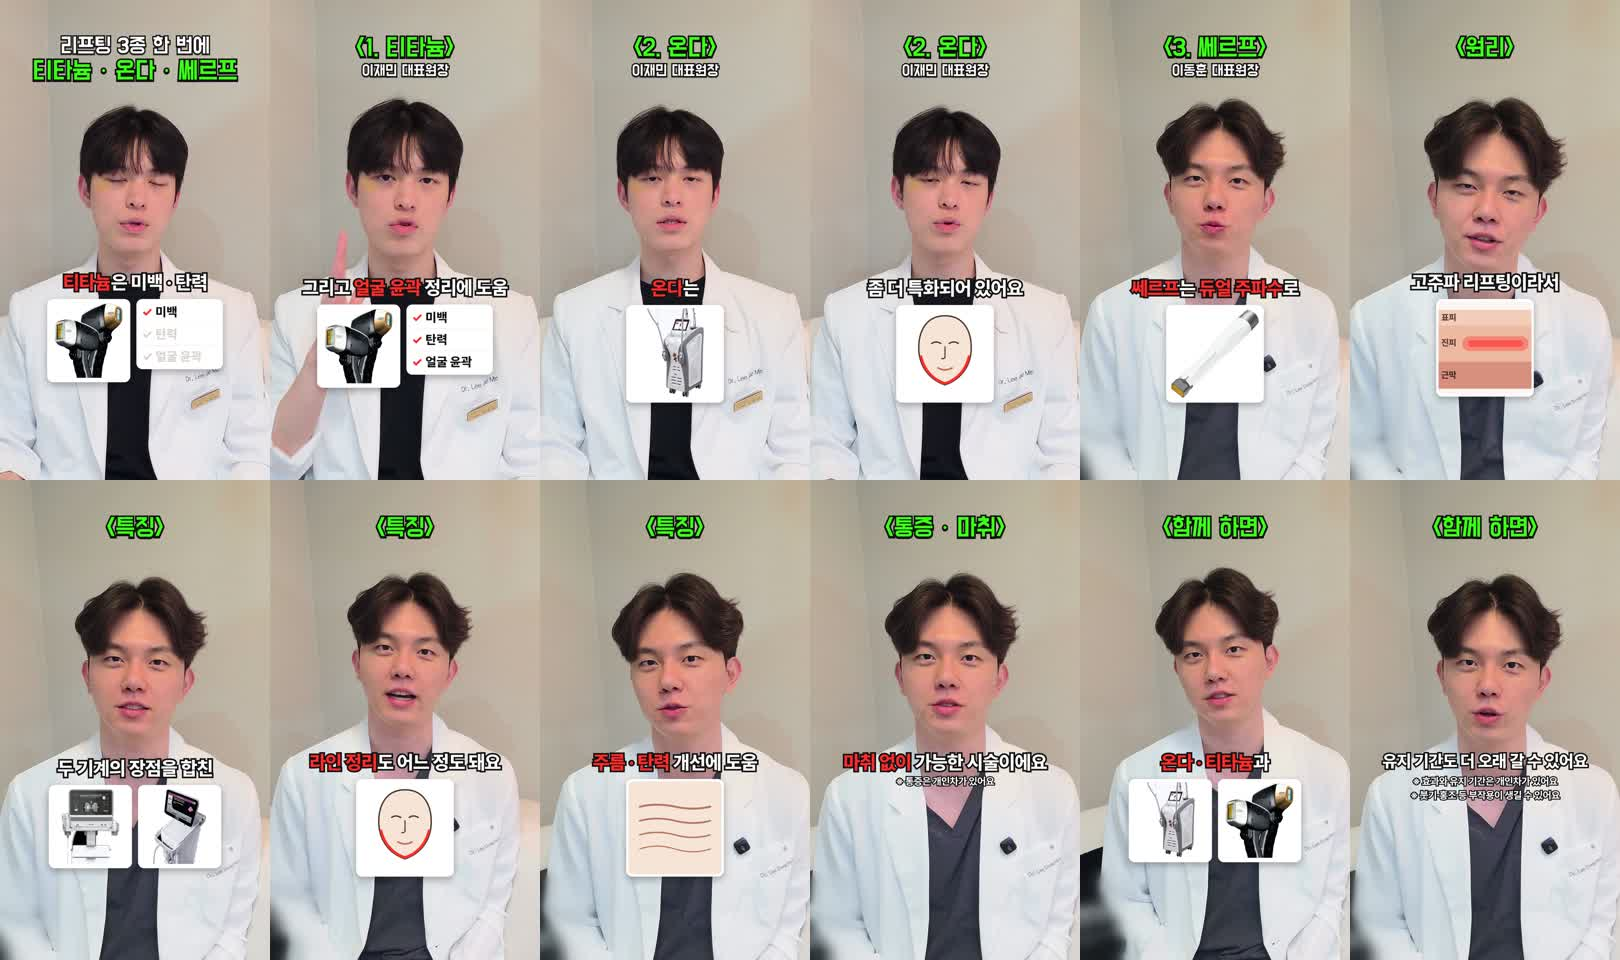
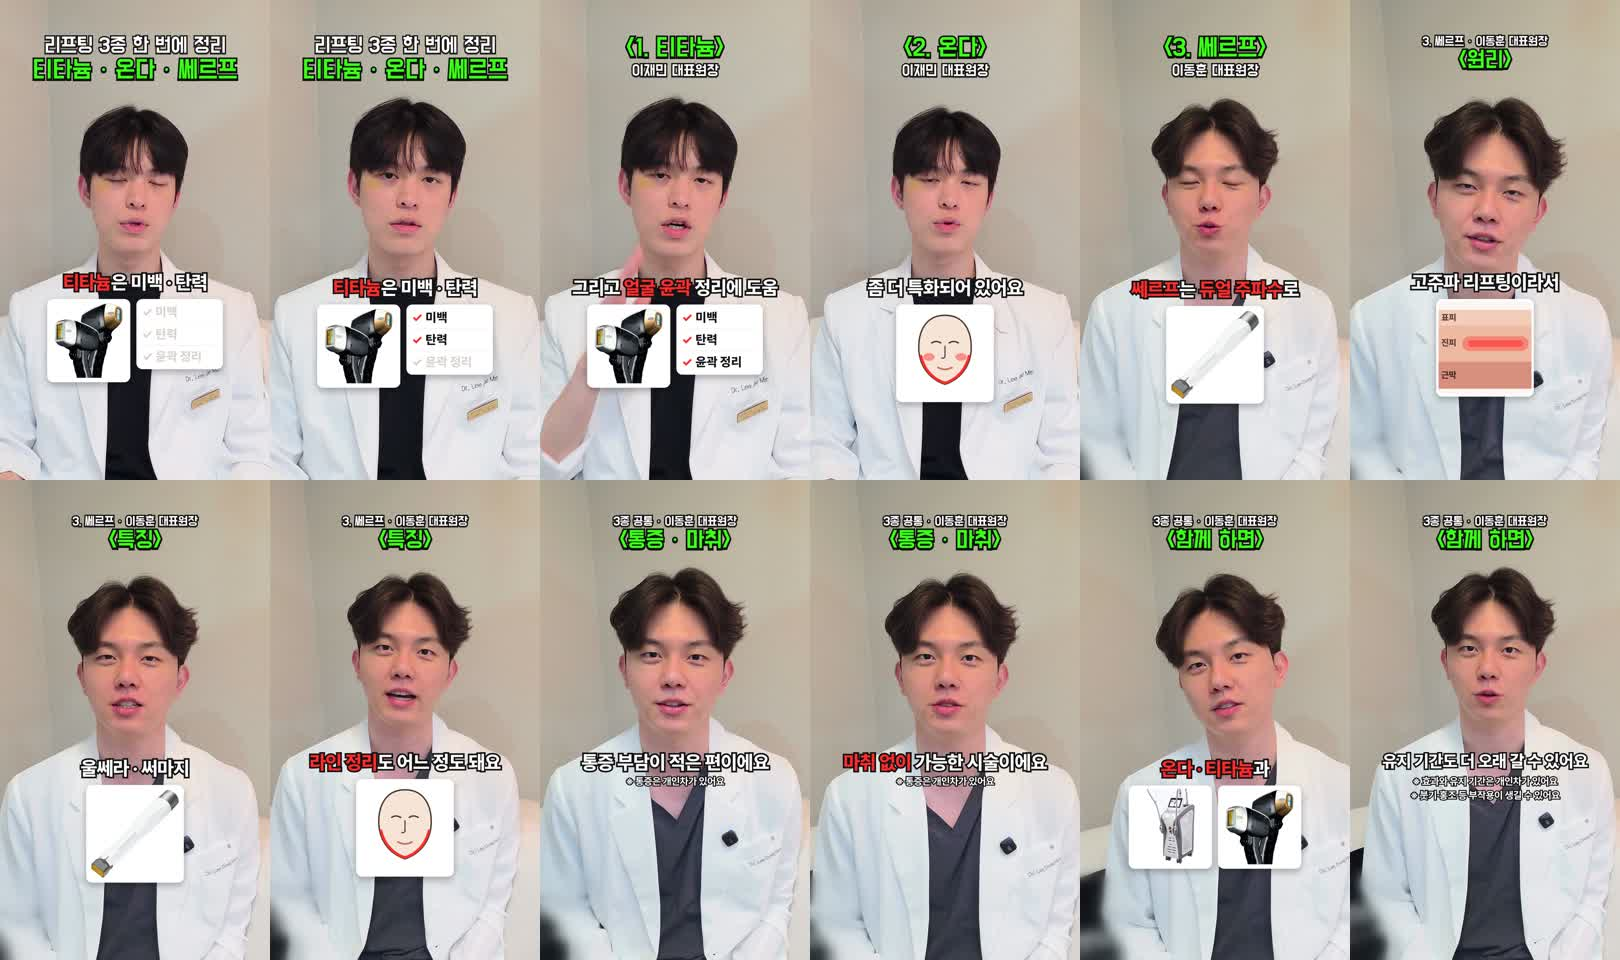
Revise combined lifting reel after verification
Drop the spoken ordinals that contradicted the on-screen order, time the
titanium checklist to the words, add kicker lines to the XERF sub-heads,
keep the XERF photo instead of a two-brand comparison, soften the pain
caption, and include blur settings in cut.py's part cache key.

Claude-Session: https://claude.ai/code/session_015iv4uUKW8AbrYF6qvAiKTG

diff --git a/reels/build/cut.py b/reels/build/cut.py
@@ -6,11 +6,11 @@ plan = {"src": "footage/x.mp4", "out": "x_cut.mov", "sil": "tr/x.sil",
         "zooms": [1.24, 1.32],             # 컷마다 번갈아 쓸 배율(원본 9:16 4K 기준, 1.0 = 화면의 75% 높이)
         "face_y": 0.40,                    # (선택) 얼굴 중심을 둘 높이(위에서 비율)
         "cover": [[x, y, w, h, "0x111111"]],  # (선택) 원본 좌표에서 칠해 가릴 사각형
-        "blur": [[x, y, w, h]],            # (선택) 원본 좌표에서 흐리게 할 사각형(상표 글자 등)
+        "blur": [[x, y, w, h, 반경]],      # (선택) 원본 좌표에서 흐리게 할 사각형(상표 글자 등). 반경 기본 22, 작은 로고는 5~6
         "zoom_list": [...]}                # (선택) 컷별 배율을 직접 지정. 원본이 이어지는 곳은 같은 배율로 두면 화면이 바뀌지 않음
 segs 안의 0.22초 넘는 쉼은 자동으로 걷어 내고, 그 자리가 컷이 된다. 결과 옆에 <out>.json(컷 목록) 저장.
 """
-import json, os, subprocess, sys
+import hashlib, json, os, subprocess, sys
 import cv2, numpy as np
 
 CAS = cv2.CascadeClassifier(cv2.data.haarcascades + "haarcascade_frontalface_default.xml")
@@ -78,12 +78,14 @@ def main():
         # cover: 원본 좌표 [x, y, w, h, 색] 사각형을 칠해 화면에 걸린 상표 등을 가림(삼각대 고정 촬영 기준)
         cov = "".join(f"drawbox=x={c[0]}:y={c[1]}:w={c[2]}:h={c[3]}:color={c[4]}:t=fill," for c in plan.get("cover", []))
         # blur: 원본 좌표 [x, y, w, h] 부분만 흐리게(검은 상자보다 자연스러움)
-        blr = "".join(f"split[m{k}][c{k}];[c{k}]crop={r[2]}:{r[3]}:{r[0]}:{r[1]},boxblur=22:3[b{k}];[m{k}][b{k}]overlay={r[0]}:{r[1]},"
+        blr = "".join(f"split[m{k}][c{k}];[c{k}]crop={r[2]}:{r[3]}:{r[0]}:{r[1]},boxblur={r[4] if len(r) > 4 else 22}:3[b{k}];[m{k}][b{k}]overlay={r[0]}:{r[1]},"
                       for k, r in enumerate(plan.get("blur", [])))
         vf = (f"{cov}{blr}crop={w}:{h}:{x}:{y},scale=1080:1920:flags=lanczos,fps=30,{tonemap(trc)}"
               "eq=contrast=1.03:saturation=1.03,unsharp=5:5:0.4,format=yuv420p")
         af = f"afade=t=in:d=0.015,afade=t=out:st={d - .025:.3f}:d=0.025,aresample=48000"
-        part = os.path.join(tmp, f"{i:02d}_{a:.2f}_{b:.2f}_{z}_{x}_{y}.mov")
+        # 캐시 이름에 가림·흐림 설정과 톤매핑까지 넣어, 설정을 바꾸면 다시 만들게 함
+        key = hashlib.md5((cov + blr + tonemap(trc)).encode()).hexdigest()[:6]
+        part = os.path.join(tmp, f"{i:02d}_{a:.2f}_{b:.2f}_{z}_{x}_{y}_{key}.mov")
         if not os.path.exists(part):
             subprocess.run(["ffmpeg", "-v", "error", "-y", "-ss", f"{a}", "-t", f"{d:.3f}", "-i", src, "-vf", vf, "-af", af, "-ac", "2",
                             "-c:v", "libx264", "-crf", "14", "-preset", "medium", "-color_primaries", "bt709", "-color_trc", "bt709",

diff --git a/reels/donghun/lifting3/README.md b/reels/donghun/lifting3/README.md
@@ -1,8 +1,8 @@
 # 리프팅 3종 한 번에: 티타늄 · 온다 · 쎄르프
 
-- 완성본: `reels/donghun_lifting3.mp4` (1080×1920 · 30fps · 32.6초 · -14.3 LUFS · SDR BT.709). 영상은 `.gitignore`로 커밋하지 않고 세션에서 따로 전달합니다.
-- 미리보기: `contact_sheet.jpg`. 빌드 자료: `plan_jm.json`(이재민 원장 구간 자르기), `combo.mov.json`(두 구간 이어 붙인 컷 목록), `spec.json`(자막·그래픽, 결과 영상 초), `shotoff.json`(컷별 자막 내림)
-- 쎄르프 구간은 `../xerf/`의 전체판을 그대로 이어 붙였습니다.
+- 완성본: `reels/donghun_lifting3.mp4` (1080×1920 · 30fps · 31.8초 · -14.3 LUFS · SDR BT.709). 영상은 `.gitignore`로 커밋하지 않고 세션에서 따로 전달합니다.
+- 미리보기: `contact_sheet.jpg`. 빌드 자료: `plan_jm.json`(이재민 원장 구간), `plan_dh.json`(이동훈 원장 구간), `combo.mov.json`(두 구간 이어 붙인 컷 목록), `spec.json`(자막·그래픽, 결과 영상 초), `shotoff.json`(컷별 자막 내림)
+- 쎄르프 구간은 `../xerf/` 전체판을 바탕으로, 이 영상의 순서(1. 티타늄 → 2. 온다)와 어긋나는 "첫 번째, 두 번째"만 소리에서 뺐습니다(원본 25.97~26.73초). 들리는 말은 "그리고 온다, 티타늄과 함께 조합하면"입니다.
 
 ## 왜 두 원장이 나오나
 
@@ -10,17 +10,20 @@
 
 | 구간 | 말 (원본) | 화면 |
 |---|---|---|
-| 0~7.7초 · 이재민 원장 | 티타늄은 미백, 탄력, 그리고 얼굴 윤곽 정리를 도와줍니다 (jm3 51.60~57.66) | 제목 「리프팅 3종 한 번에 / 티타늄 · 온다 · 쎄르프」 → <1. 티타늄> 이재민 대표원장, 티타늄 사진 + 미백·탄력·얼굴 윤곽 체크리스트(말에 맞춰 하나씩) |
-| | 온다는 얼굴 윤곽 정리에 좀 더 특화되어 있습니다 (jm3 58.12~61.04) | <2. 온다> 이재민 대표원장, 온다 사진 → 턱선 도식 |
-| 7.7초~ · 이동훈 원장 | 쎄르프 설명 전체(원리, 특징, 통증·마취, 온다·티타늄과 함께 하면) | <3. 쎄르프> 이동훈 대표원장, 이후 `../xerf/README.md`와 같음 |
+| 0~7.7초 · 이재민 원장 | 티타늄은 미백, 탄력, 그리고 얼굴 윤곽 정리를 도와줍니다 (jm3 51.60~57.66) | 제목 「리프팅 3종 한 번에 정리 / 티타늄 · 온다 · 쎄르프」 → <1. 티타늄> 이재민 대표원장, 티타늄 사진 + 미백·탄력·윤곽 정리 체크리스트(말소리에 맞춰 0.70·1.30·2.45초에 하나씩) |
+| | 온다는 얼굴 윤곽 정리에 좀 더 특화되어 있습니다 (jm3 58.12~61.04) | <2. 온다> 이재민 대표원장, 온다 사진 → 턱선·볼 도식 |
+| 7.7초~ · 이동훈 원장 | 쎄르프 설명 전체(원리, 특징, 통증·마취, 온다·티타늄과 함께 하면) | <3. 쎄르프> 이동훈 대표원장. 이후 소제목 위에 작은 머리말「3. 쎄르프 · 이동훈 대표원장」「3종 공통 · 이동훈 대표원장」. 울쎄라·써마지를 말하는 동안에도 다른 장비 사진 대신 쎄르프 사진. 자막 「통증 부담이 적은 편이에요」「티타늄 · 온다 · 쎄르프 모두」 |
 
 - 이재민 원장 구간은 웨딩 영상에서 뺐던 효과 단정 문장("얼굴이 작아보여요")과 "가장 추천" 문장을 쓰지 않았습니다.
 - 자막은 병원 메뉴 표현대로 "도움"으로 썼습니다.
 
 ## 화면 검사
 
-- 얼굴: 컷마다 얼굴을 10fps로 찾아, 턱 아래 70px까지 비도록 자막·그래픽을 컷 단위로 내렸습니다(최대 24px). 977프레임 모두 얼굴 겹침 0, 하단 UI 0, 오른쪽 버튼 0입니다.
-- 제목·소제목과 머리카락 사이는 최소 46px입니다.
+- 가슴의 무선 마이크(dji 로고)는 흐림 처리를 시험했지만 회색 얼룩처럼 보여 원래대로 두었습니다. 참고 계정 릴스도 마이크를 그대로 보입니다. 삽입 그래픽이 아니라 촬영 장비라 가드의 타사 로고 기준에 해당하지 않는다고 판단했습니다.
+- 이재민 원장 눈 밑의 노란 자국은 출연자 보정이라 승인 전에는 손대지 않았습니다.
+
+- 얼굴: 컷마다 얼굴을 10fps로 찾아, 턱 아래 70px까지 비도록 자막·그래픽을 컷 단위로 내렸습니다(최대 28px). 954프레임 모두 얼굴 겹침 0, 하단 UI 0, 오른쪽 버튼 0입니다.
+- 제목·소제목과 머리카락 사이는 최소 50px입니다.
 - 소파 쿠션 로고 흐림은 이동훈 원장 구간(7.68초~)에만 걸었습니다.
 
 ## 캡션 (붙여 넣기용)
